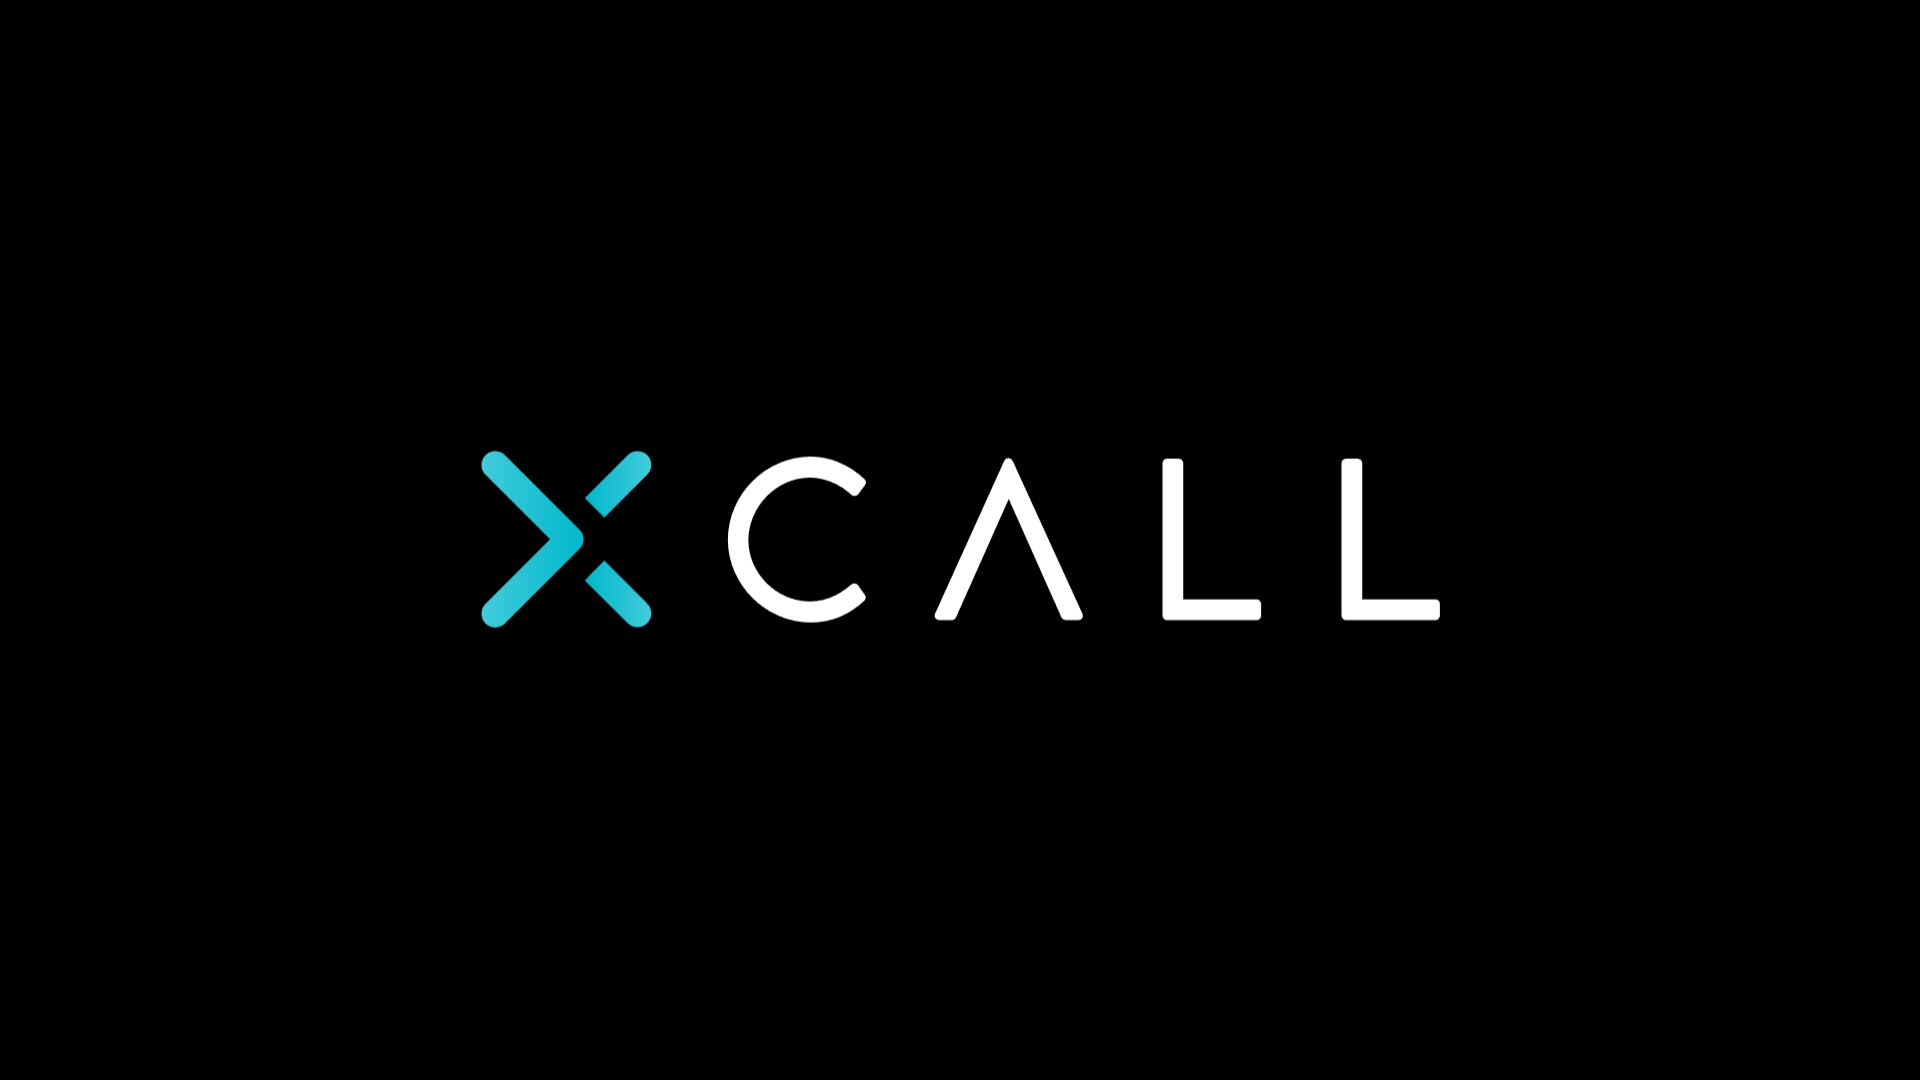
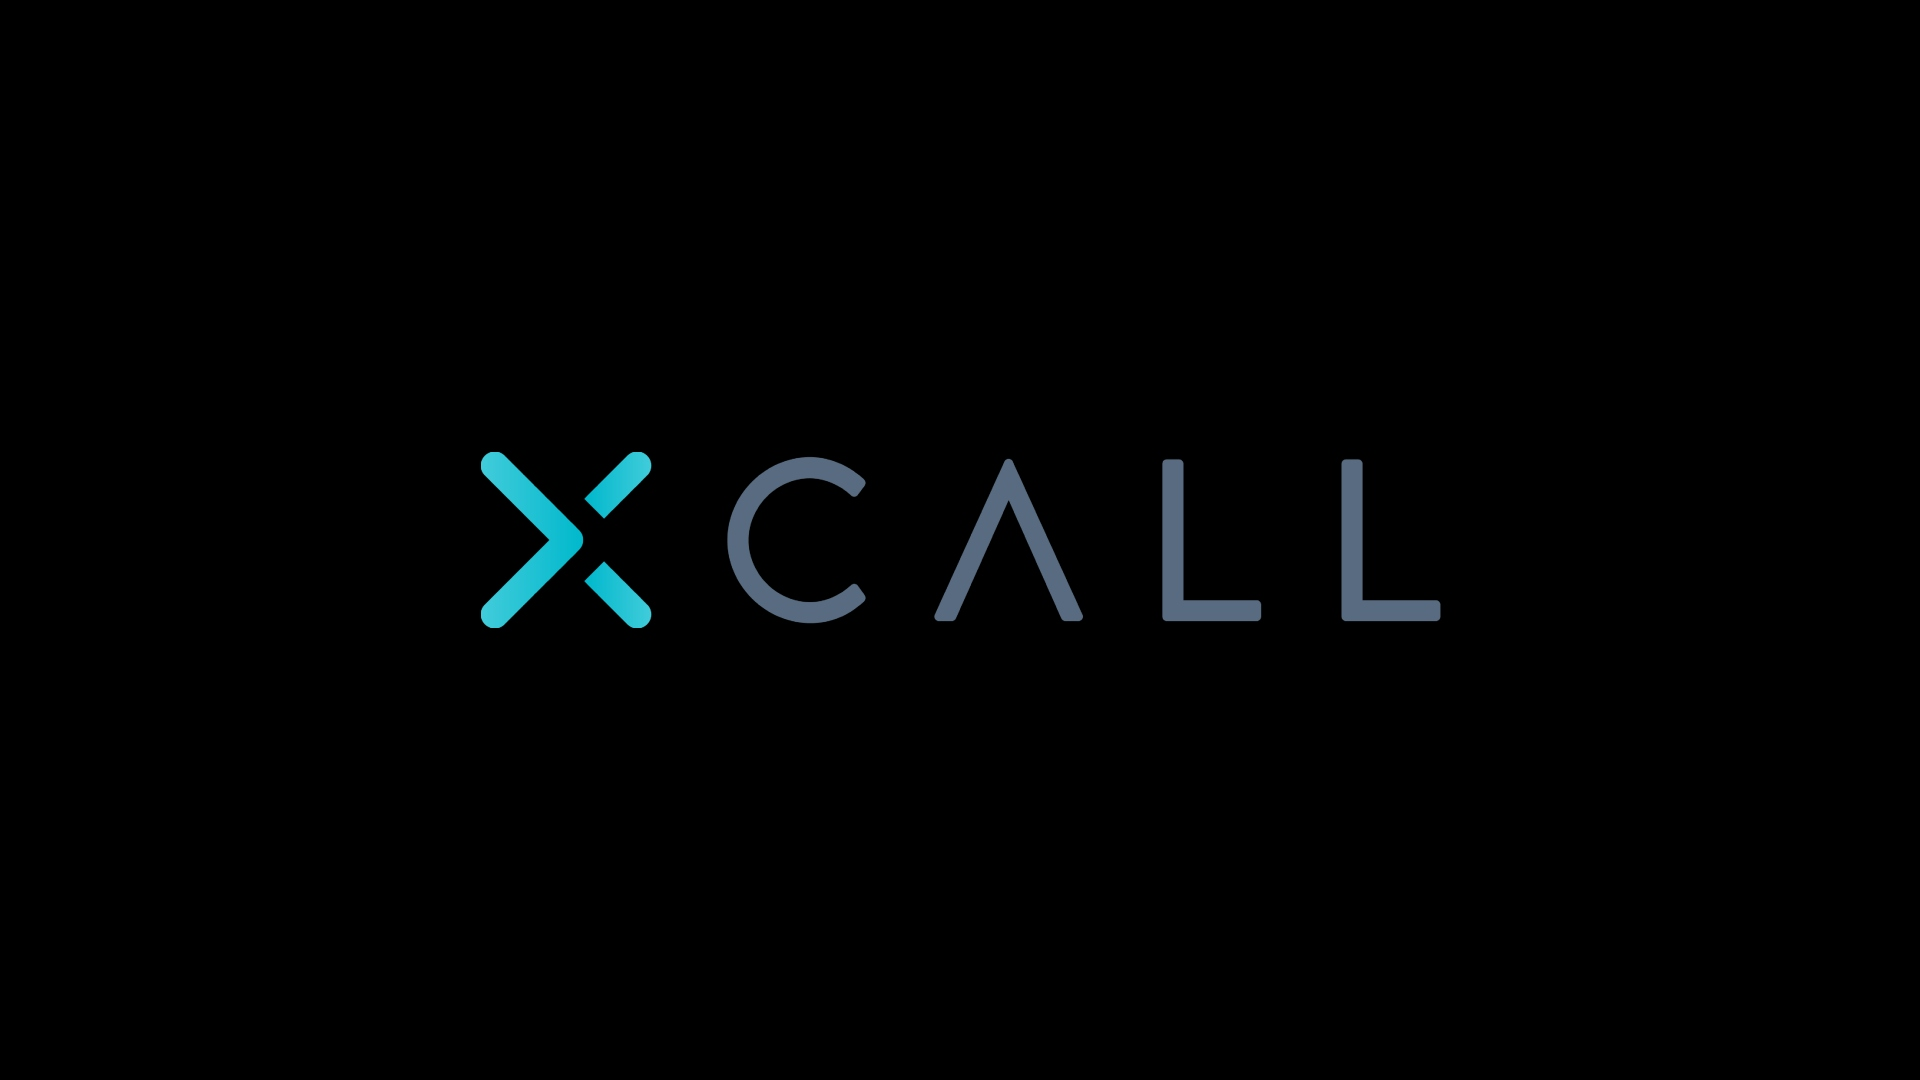
Update images

Changed region(s): [[0.375, 0.3972, 0.5625, 0.5806], [0.6875, 0.4278, 0.75, 0.5806], [0.5938, 0.4278, 0.6562, 0.5806]]

diff --git a/theme.config.tsx b/theme.config.tsx
@@ -69,24 +69,16 @@ const config: DocsThemeConfig = {
     )
   },
   editLink: {
-    text: 'Contribute to this page on GitHub →'
+    text: 'Contribute to this page →'
   },
   feedback: {
     content: 'Question? Give us feedback →',
     labels: 'feedback'
   },
   logo: () => {
-    const {systemTheme, theme, setTheme} = useTheme();
-    const currentTheme = theme === 'system' ? systemTheme : theme;
-      if(currentTheme === 'dark') {
-        return (
-          <Image src='/images/xcall-white.svg' height='50' width='100' alt={'ICON logo'} />
-        )
-    } else {
         return (
           <Image src='/images/xcall.svg' height='50' width='100' alt={'ICON logo'} />
-        )
-    }    
+        )     
   },
   sidebar: {
     titleComponent({ title, type }) {
